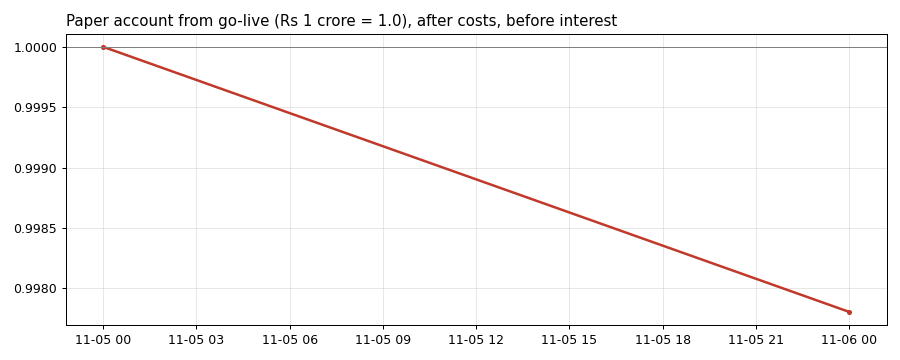
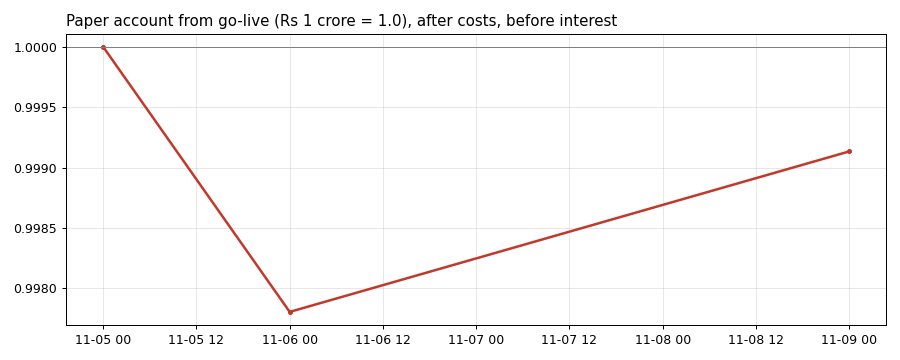
records 2026-11-09

diff --git a/README.md b/README.md
@@ -19,7 +19,7 @@ costs, and fills capped by each option's traded volume.
 <!-- live:start -->
 | Live since | Days valued | Account (paper, Rs) | Return since go-live | Last result | Latest fingerprint |
 |---|---|---|---|---|---|
-| 05 Nov 2026 | 1 | 9,978,043 | -0.22% | -0.22% (2026-11-05 book, valued 2026-11-06) | `94901274229f...` decided 2026-11-06 at 15:17:39 IST |
+| 05 Nov 2026 | 2 | 9,991,336 | -0.09% | +0.13% (2026-11-06 book, valued 2026-11-09) | `f26a896e72a5...` decided 2026-11-09 at 15:16:31 IST |
 
 *Updated automatically by each day's run. Failed days: 0. Every row: [records/daily.csv](records/daily.csv).*
 <!-- live:end -->
